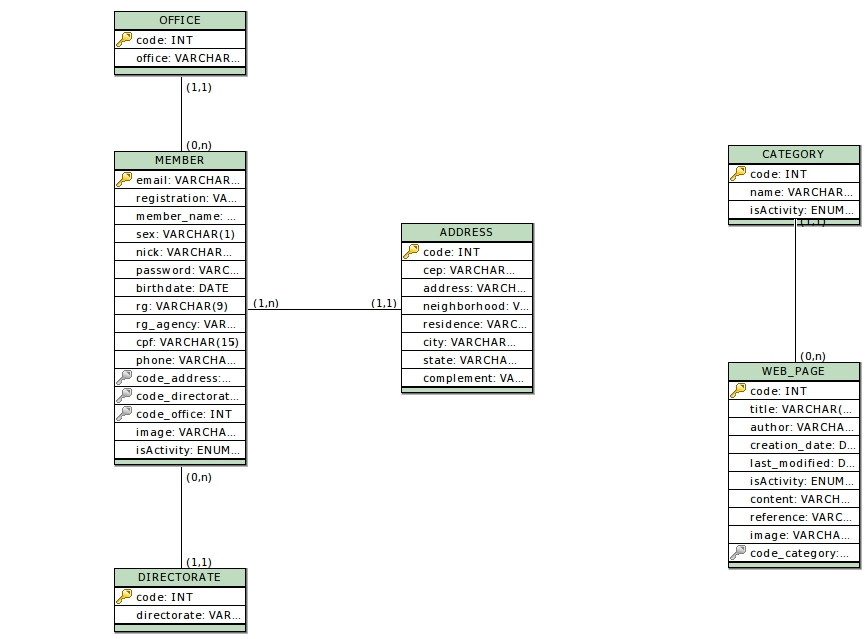
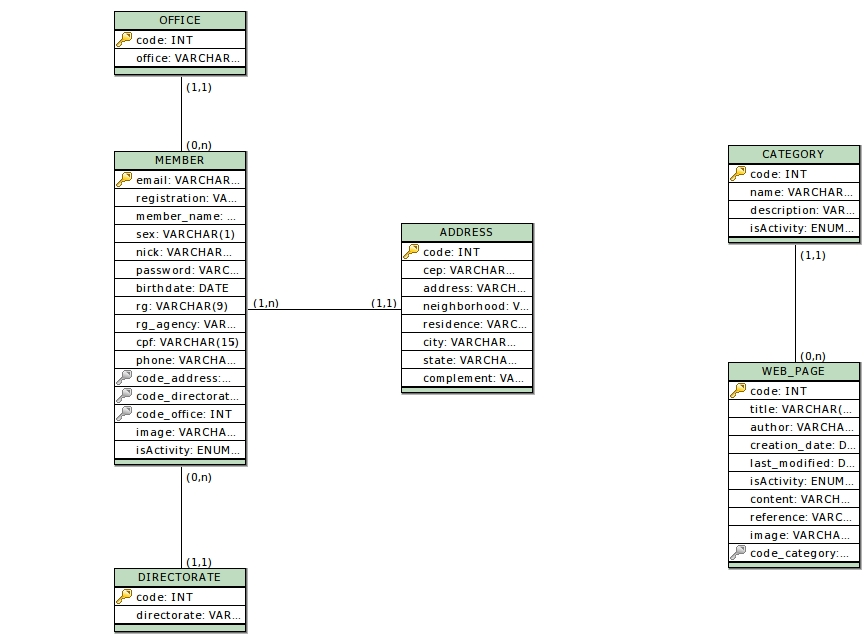
Adding description in category

Changed region(s): [[0.8408, 0.2973, 0.9965, 0.4163]]

diff --git a/site/adm/category.php b/site/adm/category.php
@@ -44,7 +44,7 @@
               <label>Nome:</label><br>
               <input type="text" name="category" id="new_category" size="50%" maxlength="50" required>
               <label>Descrição:</label><br>
-              <textarea name="description" id="description" maxlength="200" rows="5" cols="50"></textarea><br>
+              <textarea name="description" id="new_description" maxlength="200" rows="5" cols="50"></textarea><br>
             </fieldset>
             <input type="button" name="submit" value="Salvar" id="register_button">
         </form>
@@ -57,10 +57,13 @@
           <fieldset>
             <label>Cadastradas</label><br>
             <select name="categories" id="select_update">
+            <option value="-1">Selecione uma categoria</option>
             <?php FindCategories::getOptions(); ?>
             </select><br>
             <label>Novo Nome:</label><br>
             <input type="text" name="category" id="update_category" size="50%" required>
+              <label>Nova Descrição:</label><br>
+              <textarea name="description" id="update_description" maxlength="200" rows="5" cols="50"></textarea><br>
           </fieldset>
           <input type="button" name="submit" value="Salvar" id="update_button">
         </form>
@@ -73,42 +76,58 @@
 <script type="text/javascript">
 $(document).ready(function(){
 
+    $('#select_update').change(function(){
+        if($('#select_update').val() != -1){
+            $('#update_category').val($('#select_update option:selected').text());
+        } else{
+            $('#update_category').val('');
+        }
+    });
+
     $('#update_button').click(function(){
-        $.ajax({
-            url: '../controller/updateCategory.php?id=' + $('#select_update').val() +
-                '&name=' + $('#select_update option:selected').text() +
-                '&new_name=' + $('#update_category').val(),
-            success: function(data) {
-                alert(data);
-                $.ajax({
-                    url: '../controller/findCategory.php',
-                    success: function(data){
-                        $('#select_update').html(data);
-                        $('#update_category').val("");
-                    }
-                });
-                $.ajax({
-                    url: '../controller/findCategory.php?checkbox=yes',
-                    success: function(data){
-                        $('#enableCategory').html(data);
-                        $('#new_category').val("");
-                    }
-                });
-            },
-            beforeSend: function(){
-                $('#update').html("Carregando...");
-            },
-            complete: function(){
-                $('#update').html("");
-            },
-        });
+
+        if($('#select_update').val() != -1){
+            $.ajax({
+                url: '../controller/updateCategory.php?id=' + $('#select_update').val() +
+                    '&name=' + $('#select_update option:selected').text() +
+                    '&new_name=' + $('#update_category').val() + '&description=' + $('#update_description').val(),
+                success: function(data) {
+                    alert(data);
+                    $.ajax({
+                        url: '../controller/findCategory.php',
+                        success: function(data){
+                            $('#select_update').html(data);
+                            $('#update_category').val("");
+                            $('#update_description').val("");
+                        }
+                    });
+                    $.ajax({
+                        url: '../controller/findCategory.php?checkbox=yes',
+                        success: function(data){
+                            $('#enableCategory').html(data);
+                            $('#update_category').val("");
+                        }
+                    });
+                },
+                beforeSend: function(){
+                    $('#update').html("Carregando...");
+                },
+                complete: function(){
+                    $('#update').html("");
+                },
+            });
+        } else {
+            alert("Selecione uma categoria");
+            $('#update_category').val('');
+        }
     });
 
 
 
     $('#register_button').click(function(){
         $.ajax({
-            url: '../controller/registerCategory.php?name=' + $('#new_category').val(),
+            url: '../controller/registerCategory.php?name=' + 
+                $('#new_category').val() + '&description=' + $('#new_description').val(),
             success: function(data) {
                 alert(data);
                 $.ajax({
@@ -122,6 +141,7 @@ $(document).ready(function(){
                     success: function(data){
                         $('#enableCategory').html(data);
                         $('#new_category').val("");
+                        $('#new_description').val("");
                     }
                 });
             },
@@ -134,7 +154,7 @@ $(document).ready(function(){
         });
     });
 
-    $("button").live('click', function(){
+    $(".button_category").live('click', function(){
         if(confirm('A operação não poderá ser desfeita.\n' + 
             'Todas as páginas pertencentes a esta categoria também serão removidas.\n' +
             'Tem certeza que deseja remover a categoria ' +

diff --git a/site/class/model/category.php b/site/class/model/category.php
@@ -21,24 +21,29 @@ namespace model{
         private $name; //name of category, not null value
         private $id; //category code, only numbers or null if not exists in database
         private $is_activity; //'y' or 'n' to register if category is visible
+        private $description; //Description of category
 
         /* Exception messengers */
         const NULL_NAME = "Nome não pode ser nulo.";
         const NAME_LARGER = "Nome não pode ter mais que 100 caracteres.";
+        const NULL_DESCRIPTION = "Descrição não pode ser nulo.";
+        const DESCRIPTION_LARGER = "Descrição não pode ter mais que 500 caracteres.";
         const NO_NUMERIC_ID = "Id deve ser um número.";
         const INVALID_ACTIVITY = "A category só pode ser Ativa ou Não Ativa";
 
         /**
          * Method to create a category instance
          *
-         * @param string $name          name of category, not null value
-         * @param int    $id            category code, only numbers or null if not exists in database
-         * @param string $is_activity   'y' or 'n' to register if category is visible, default is 'y'
+         * @param string    $name          name of category, not null value
+         * @param string    $description   description of category
+         * @param int       $id            category code, only numbers or null if not exists in database
+         * @param string    $is_activity   'y' or 'n' to register if category is visible, default is 'y'
          */
-        public function __construct($name, $id = null, $is_activity = "y")
+        public function __construct($name, $description, $id = null, $is_activity = "y")
         {
             $this->setName($name);
             $this->setId($id);
+            $this->setDescription($description);
             $this->setIsActivity($is_activity);
         }
 
@@ -92,6 +97,26 @@ namespace model{
         public function getIsActivity()
         {
             return $this->is_activity;
+        }
+
+        private function setDescription($description)
+        {
+            $description = trim($description);
+
+            if ($description != null) {
+                if (strlen($description) <= 500) {
+                    $this->description = $description;
+                } else {
+                    throw new CategoryException(self::DESCRIPTION_LARGER);
+                }
+            } else {
+                throw new CategoryException(self::NULL_DESCRIPTION);
+            }
+        }
+
+        public function getDescription()
+        {
+            return $this->description;
         }
     }
 }

diff --git a/site/class/database/categoryDao.php b/site/class/database/categoryDao.php
@@ -38,7 +38,7 @@ namespace dao{
 
         public static function getCategories()
         {
-            $query = "SELECT code, name, isActivity FROM CATEGORY";
+            $query = "SELECT code, name, isActivity, description FROM CATEGORY";
             $dao = new DAO(Globals::HOST, Globals::USER, Globals::PASSWORD, Globals::DATABASE);
 
             $resultSet = $dao->query($query);
@@ -49,6 +49,7 @@ namespace dao{
                 $data[$i][0] = $row['code'];
                 $data[$i][1] = $row['name'];
                 $data[$i][2] = $row['isActivity'];
+                $data[$i][3] = $row['description'];
             }
 
             return $data;
@@ -79,12 +80,14 @@ namespace dao{
          */
         public function register()
         {
-            $query = "INSERT INTO CATEGORY(name) VALUES('{$this->getCategoryModel()->getName()}')";
+            $query = "INSERT INTO CATEGORY(name,description) VALUES('
+            {$this->getCategoryModel()->getName()}','{$this->getCategoryModel()->getDescription()}')";
 
             parent::query($query);
 
             $category = new Category(
                 $this->getCategoryModel()->getName(),
+                $this->getCategoryModel()->getDescription(),
                 parent::insertId()
             );
 
@@ -145,7 +148,7 @@ namespace dao{
          */
         public static function findCategory($code)
         {
-            $query = "SELECT code, name, isActivity FROM CATEGORY WHERE code = {$code}";
+            $query = "SELECT code, name, description, isActivity FROM CATEGORY WHERE code = {$code}";
             $dao = new DAO(Globals::HOST, Globals::USER, Globals::PASSWORD, Globals::DATABASE);
 
             $resultSet = $dao->query($query);
@@ -153,7 +156,7 @@ namespace dao{
             $category = null;
 
             if ($row = $resultSet->fetch_assoc()) {
-                $category = new Category($row['name'], $row['code'], $row['isActivity']);
+                $category = new Category($row['name'], $row['description'], $row['code'], $row['isActivity']);
             } else {
                 throw new DatabaseException(self::NOT_EXISTS_CATEGORY);
             }

diff --git a/site/tests/model.categoryTest.php b/site/tests/model.categoryTest.php
@@ -12,15 +12,16 @@ namespace htmlTests{
     {
         public function testCreateValidCategory()
         {
-            $category = new Category("PCBS - ....", 1);
+            $category = new Category("PCBS - ....", "aaaaa", 1);
             assert($category->getName() == "PCBS - ....");
+            assert($category->getDescription() == "aaaaa");
             assert($category->getId() == 1);
             assert($category->getIsActivity() == "y");
         }
 
         public function testCreateValidCategoryWithoutId()
         {
-            new Category("PCBS - ....");
+            new Category("PCBS - ....", "aaaaa");
         }
 
         /**
@@ -28,7 +29,7 @@ namespace htmlTests{
          */
         public function testNameInvalid()
         {
-            new Category("");
+            new Category("", "aaaaa");
         }
 
 
@@ -38,7 +39,7 @@ namespace htmlTests{
         public function testLargeName()
         {
             new Category("aaaaaaaaaaaaaaaaaaaaaaaaaaaaaaaaaaaaaaaaaaaaaaaaaaa" .
-                "aaaaaaaaaaaaaaaaaaaaaaaaaaaaaaaaaaaaaaaaaaaaaaaaaa");
+                "aaaaaaaaaaaaaaaaaaaaaaaaaaaaaaaaaaaaaaaaaaaaaaaaaa", "aaaaa");
         }
 
         /**
@@ -46,7 +47,7 @@ namespace htmlTests{
          */
         public function testIdInvalid()
         {
-            new Category("aa", "1a");
+            new Category("aa", "aaaaa", "1a");
         }
     }
 }

diff --git a/site/controller/removeCategory.php b/site/controller/removeCategory.php
@@ -1,10 +1,10 @@
 <?php
 /**
- *Base class to persist data
+ *Controller to remove an especific category
  *
  *@author  Vinicius Pinheiro <viny-pinheiro@hotmail.com>
  *@license MIT License
- *@link    http://eletronjun.com.br/controller/registerCategory.php
+ *@link    http://eletronjun.com.br/controller/findCategory.php
  */
 require_once __DIR__ . "/../class/autoload.php";
 
@@ -18,11 +18,13 @@ $session = new Session();
 $session->verifyIfSessionIsStarted();
 
 try {
-    $category = new Category($_GET['name'], $_GET['description']);
+    $category = new Category($_GET['name'], $_GET['id']);
 
     $category_dao = new CategoryDAO($category);
-    $category_dao->register();
-    echo "Salvo com sucesso!";
+
+    $category_dao->remove();
+    
+    echo "Removido com sucesso!";
 } catch (Exception $msg) {
     echo $msg;
 }

diff --git a/site/categories.php b/site/categories.php
@@ -26,6 +26,8 @@ try {
 
     <?php
 
+    echo CategoryDao::findCategory($_GET['code'])->getDescription();
+
     $data = WebPageDao::returnLast3byCategory($_GET['code']);
     if (!$data[0]) {
       // Nothing do
@@ -73,6 +75,7 @@ for ($i=0; $i < count($allPublications); $i++) {
 
 <?php
 } catch (Exception $msg) {
+    echo $msg;
     echo "<main><h1>Página não encontrada</h1>";
     echo "<p>Desculpe-nos, mas essa publicação não existe ou foi retirada do ar.</p></main>";
 }

diff --git a/site/class/html/findCategory.php b/site/class/html/findCategory.php
@@ -69,7 +69,7 @@ namespace html{
             for ($i=0; $i < count($data); $i++) {
                 echo "<tr>\n";
                 FindCategories::getCheckboxData($data, $i);
-                echo "<td><button type='button' value='{$data[$i][0]}-_-{$data[$i][1]}'>Remover</button></td>";
+                echo "<td><button type='button' value='{$data[$i][0]}-_-{$data[$i][1]}' class='button_category'>Remover</button></td>";
                 echo "</tr>\n";
             }
         }

diff --git a/site/controller/updateCategory.php b/site/controller/updateCategory.php
@@ -18,7 +18,7 @@ $session = new Session();
 $session->verifyIfSessionIsStarted();
 
 try {
-    $category = new Category($_GET['name'], $_GET['id']);
+    $category = new Category($_GET['name'], $_GET['description'], $_GET['id']);
 
     $category_dao = new CategoryDAO($category);
 
